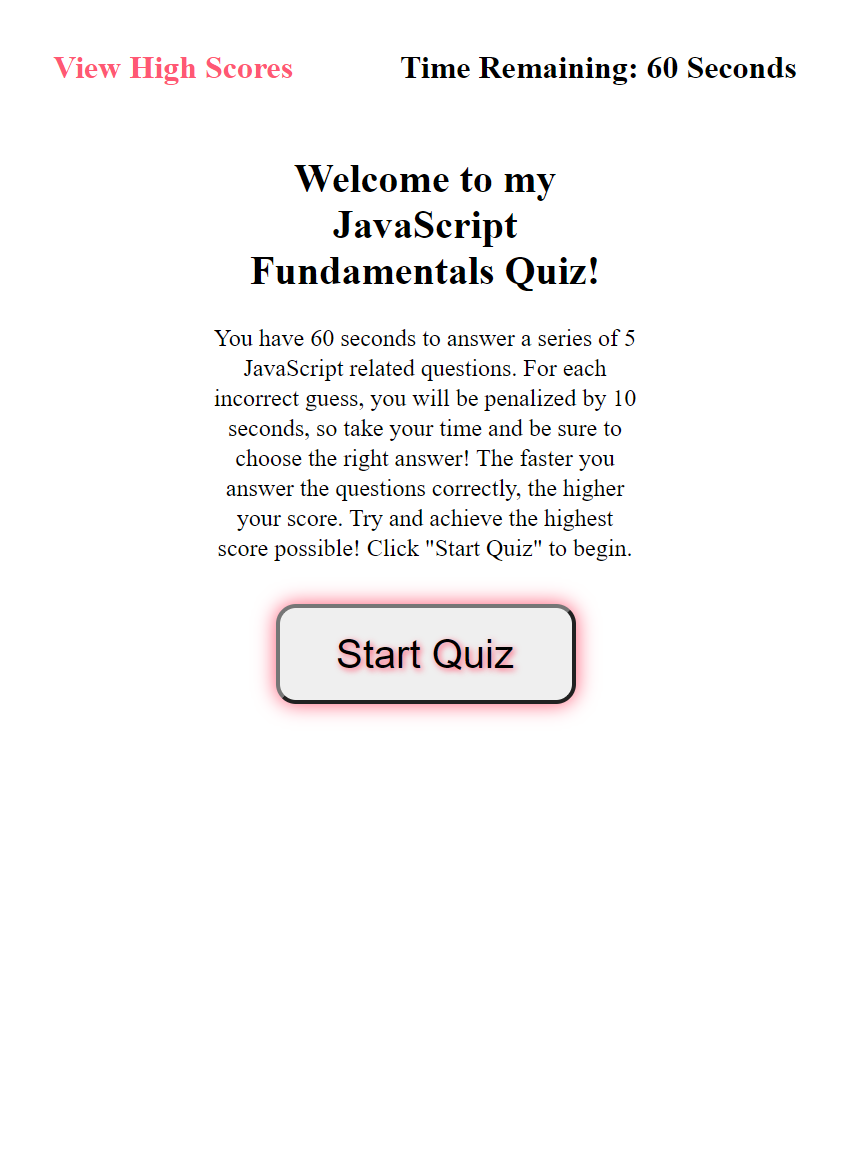
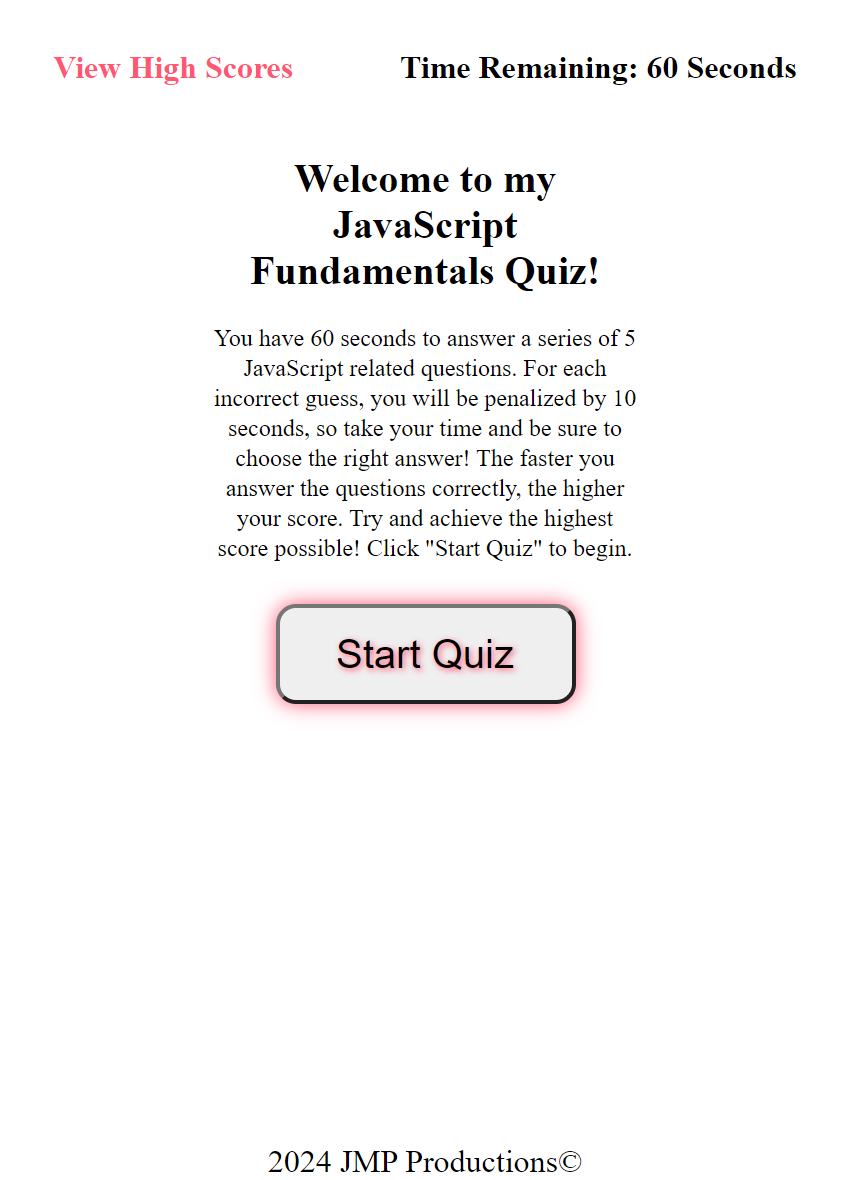
Added bullets to technologies used on README. Updated screenshots on README to reflect the addition of a footer.

diff --git a/README.md b/README.md
@@ -23,11 +23,11 @@ In the center of the page, you will see a welcome message, followed by the instr
 
 5. Technologies Used
 
-HTML5
-CSS
-JavaScript
-VSCode
-GitBash
+* HTML5
+* CSS
+* JavaScript
+* VSCode
+* GitBash
 
 ## Usage
 To view this webpage, please visit https://joshmassa.github.io/code-quiz/
